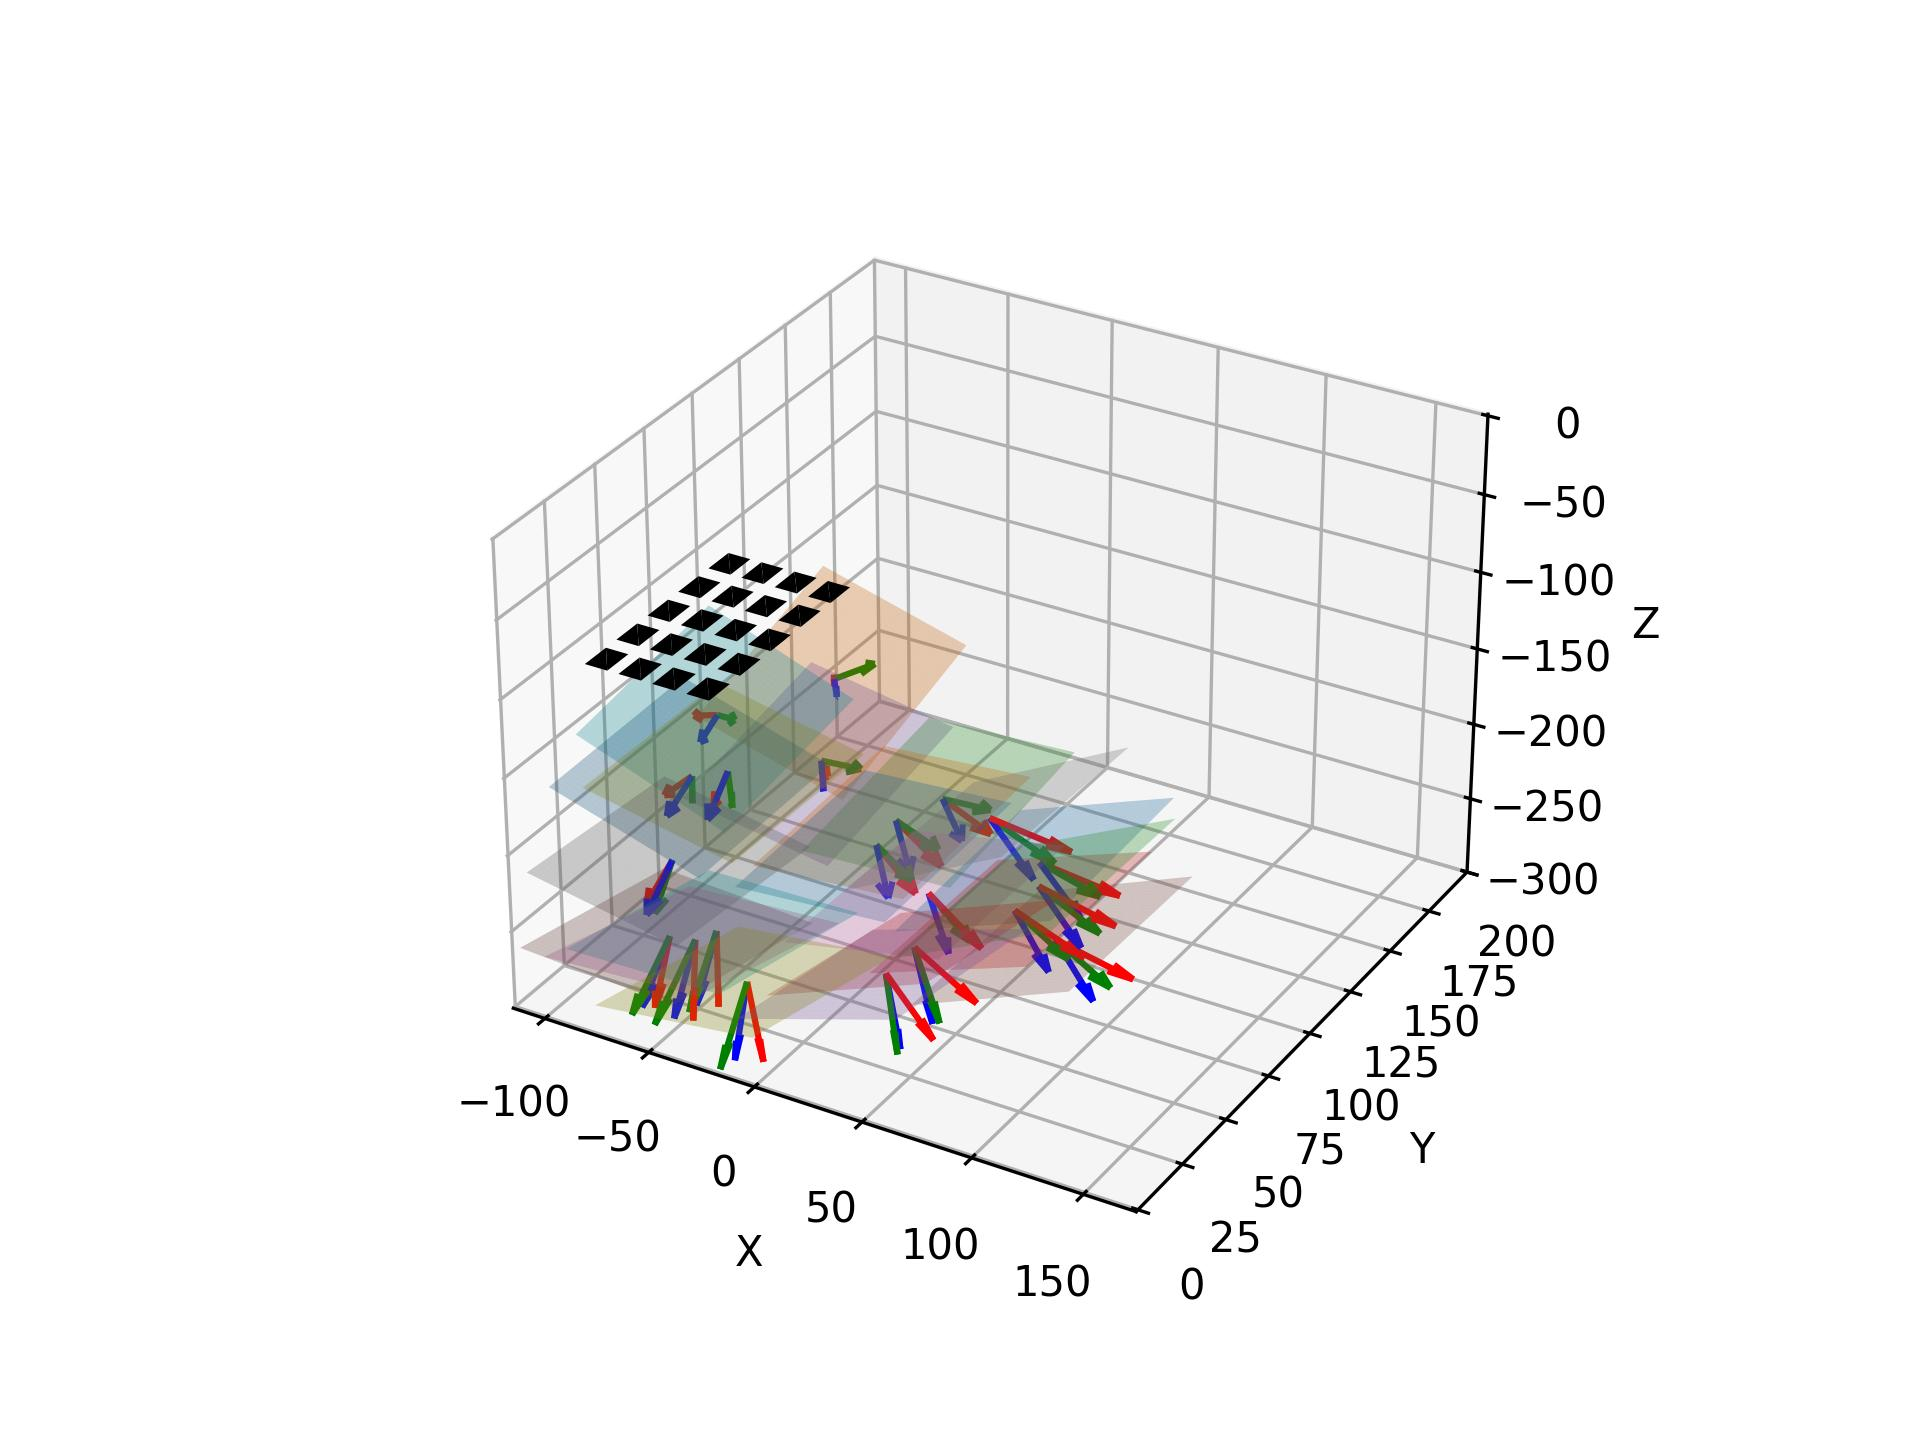
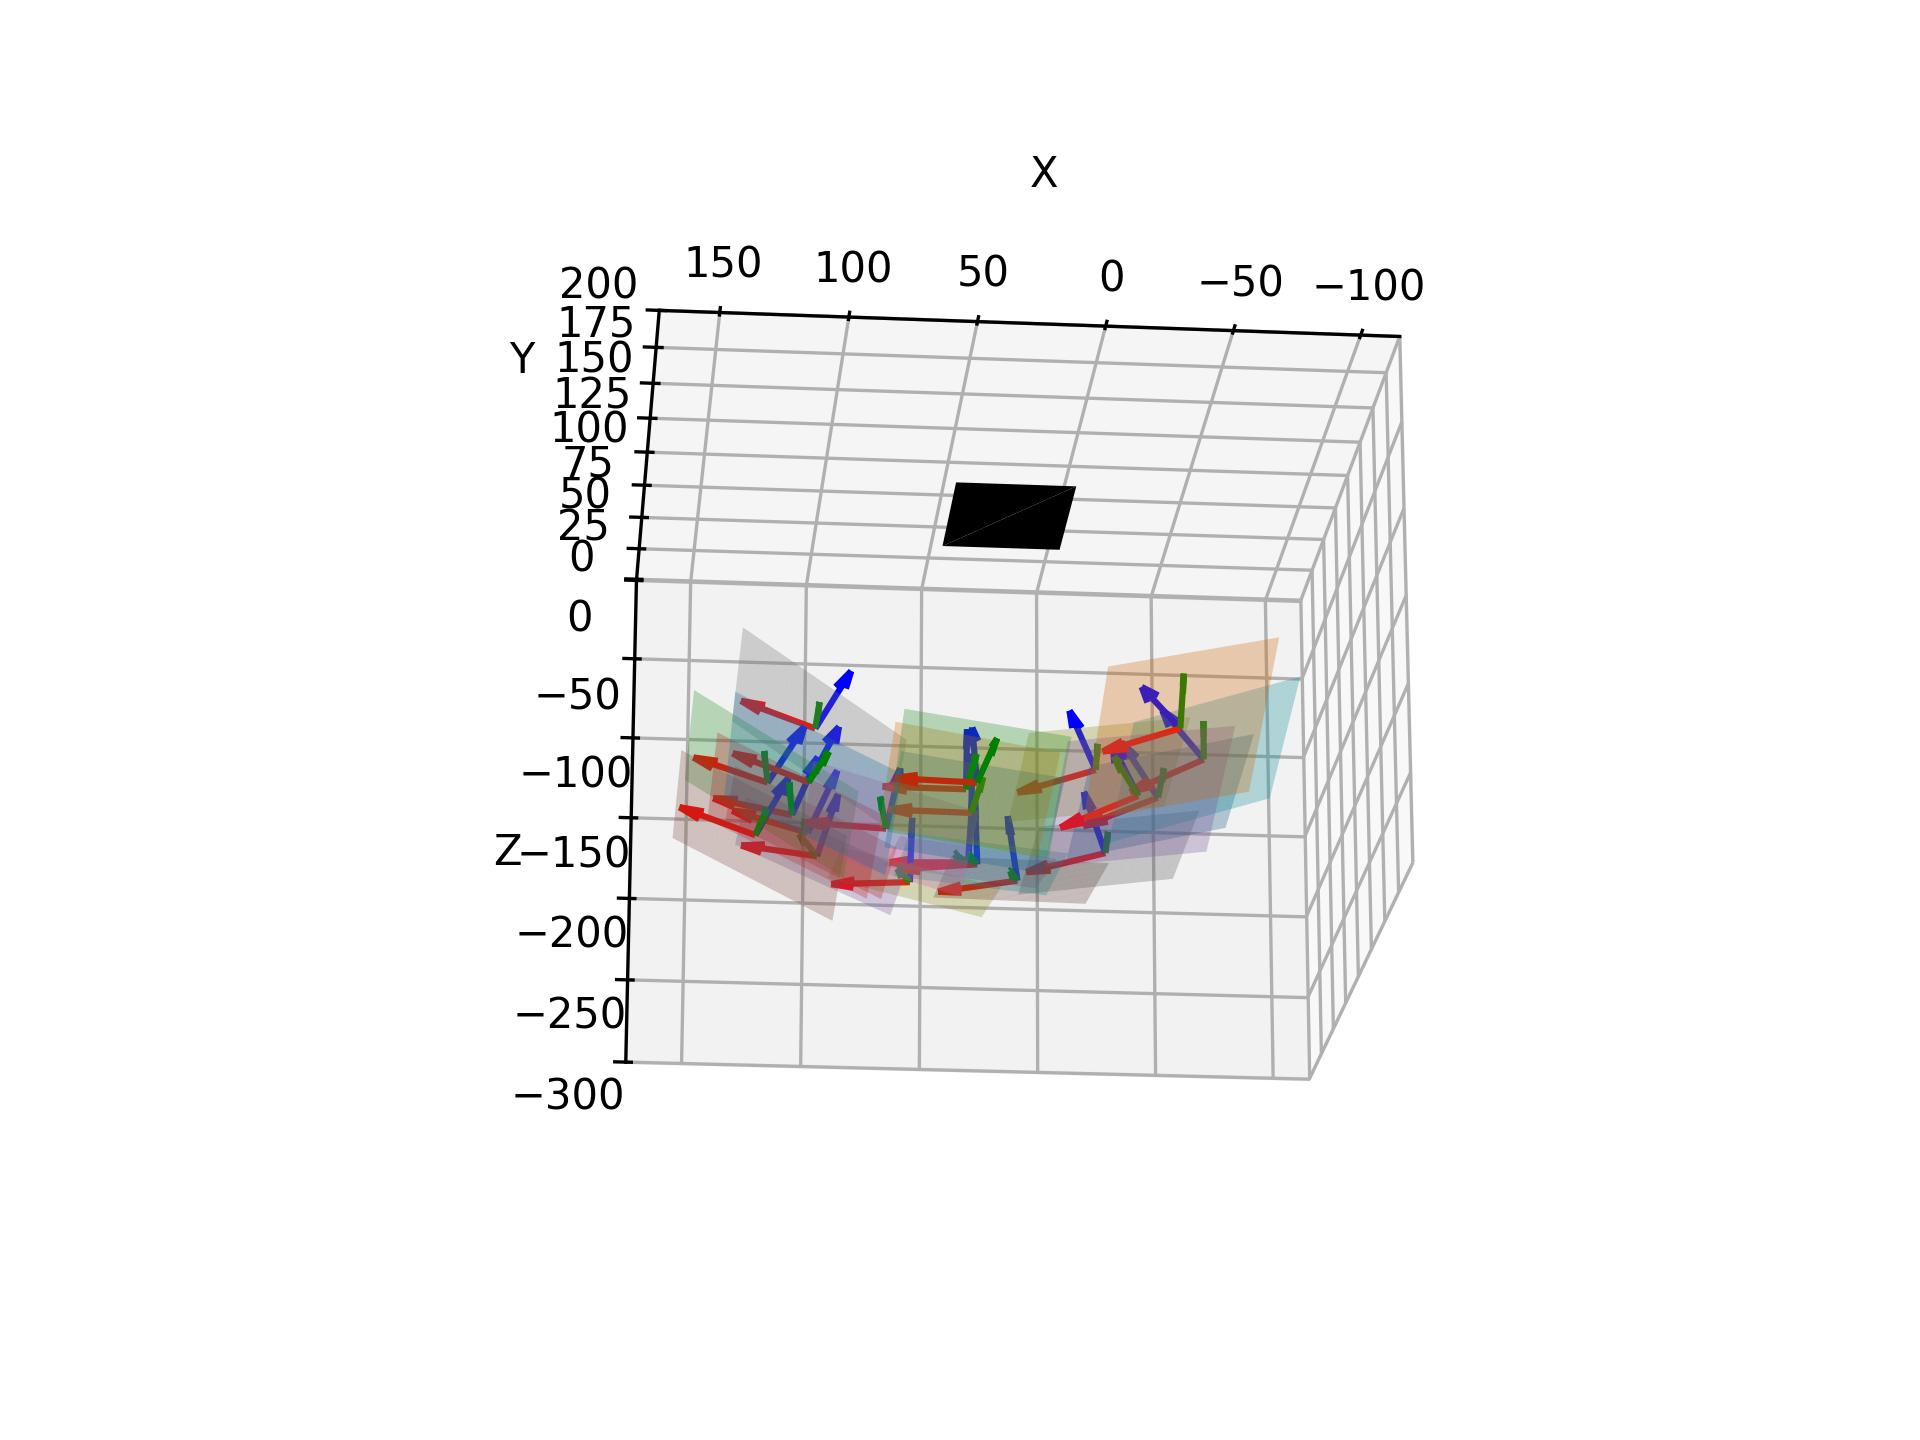
camera pose problem solve

diff --git a/HW8/main.py b/HW8/main.py
@@ -443,57 +443,55 @@ print("[k1 k2] ", res_ls_rd.x[-2:])
 print("-------------------------------------")
 
 def camera_poses(Rs, ts):
-    Cs=[-np.matmul(np.transpose(Rs[i]),ts[i]) for i in range(len(Rs))]
-    Xx=[np.matmul(np.transpose(Rs[i]),[Cs[i][0] + 1,0,0])+Cs[i] for i in range(len(Rs))]
-    Xy=[np.matmul(np.transpose(Rs[i]),[0,Cs[i][1] + 1,0])+Cs[i] for i in range(len(Rs))]
-    Xz=[np.matmul(np.transpose(Rs[i]),[0,0,Cs[i][2] + 1])+Cs[i] for i in range(len(Rs))]
+    Cs=[-Rs[i].T @ ts[i] for i in range(len(Rs))]
+    Xx=[Rs[i].T @ [1,0,0]+Cs[i] for i in range(len(Rs))]
+    Xy=[Rs[i].T @ [0,1,0]+Cs[i] for i in range(len(Rs))]
+    Xz=[Rs[i].T @ [0,0,1]+Cs[i] for i in range(len(Rs))]
     ### length of vectors
     length=35
     fig = plt.figure()
     ax = fig.add_subplot(111, projection='3d')
     for i in range(len(Cs)):
         ax.quiver(Cs[i][0],Cs[i][1],Cs[i][2],
-                  Xx[i][0],Xx[i][1],Xx[i][2],
-                  color="r",length=length,normalize=True)
-        if i==0:
-            print(Xx[i])
+                Xx[i][0]-Cs[i][0],Xx[i][1]-Cs[i][1],Xx[i][2]-Cs[i][2],
+                color="r",length=length,normalize=True)
     for i in range(len(Cs)):
         ax.quiver(Cs[i][0],Cs[i][1],Cs[i][2],
-                  Xy[i][0],Xy[i][1],Xy[i][2],
-                  color="g",length=length,normalize=True)
-        if i==0:
-            print(Xy[i])
+                Xy[i][0]-Cs[i][0],Xy[i][1]-Cs[i][1],Xy[i][2]-Cs[i][2],
+                color="g",length=length,normalize=True)
     for i in range(len(Cs)):
         ax.quiver(Cs[i][0],Cs[i][1],Cs[i][2],
-                  Xz[i][0],Xz[i][1],Xz[i][2],
-                  color="b",length=length,normalize=True)
-        if i==0:
-            print(Xz[i])
+                Xz[i][0]-Cs[i][0],Xz[i][1]-Cs[i][1],Xz[i][2]-Cs[i][2],
+                color="b",length=length,normalize=True)
     for i in range(len(Cs)):
         xx, yy = np.meshgrid(range(int(Cs[i][0]-length),int(Cs[i][0]+length)),
-                             range(int(Cs[i][1]-length),int(Cs[i][1]+length)))
+                            range(int(Cs[i][1]-length),int(Cs[i][1]+length)))
         z = -((xx-Cs[i][0])*Xz[i][0]+(yy-Cs[i][1])*Xz[i][1])/Xz[i][2]+Cs[i][2]
         ax.plot_surface(xx, yy, z, alpha=0.3)
         
-    # Create calibration pattern on the Z=0 plane
-    grid_size = 10  # Size of each square in the grid
-    num_squares_h = 5  # Number of squares along each axis
-    num_squares_v = 4
-    gap = 5  # Space between squares
+    center_x, center_y = 20, 60  # Adjust these values to the center of your plot
+    size = 50  # Adjust the size of the square as needed
 
-    for i in range(-num_squares_v // 2, num_squares_v // 2):
-        for j in range(-num_squares_h // 2, num_squares_h // 2):
-            x = [i * (grid_size + gap), (i + 1) * (grid_size + gap) - gap, (i + 1) * (grid_size + gap) - gap, i * (grid_size + gap)]
-            y = [j * (grid_size + gap), j * (grid_size + gap), (j + 1) * (grid_size + gap) - gap, (j + 1) * (grid_size + gap) - gap]
-            z = [0, 0, 0, 0]
-            ax.plot_trisurf(x, y, z, color='black', shade=False)
+    # Define the square's corner coordinates in the z=0 plane
+    x_square = [center_x - size / 2, center_x + size / 2, center_x + size / 2, center_x - size / 2]
+    y_square = [center_y - size / 2, center_y - size / 2, center_y + size / 2, center_y + size / 2]
+    z_square = [0, 0, 0, 0]  # Ensure the square lies in the z=0 plane
+
+    # Plot the black square on the z=0 plane
+    ax.plot_trisurf(x_square, y_square, z_square, color='black')
     
     ## show origin with limit setting
     ax.set_ylim([-1, 200])
-    ax.set_zlim([-300, 1])
+    ax.set_zlim([-300, 0])
     ax.set_xlabel("X")
     ax.set_ylabel("Y")
     ax.set_zlabel("Z")
+    
+    # elev = 20   # Elevation angle
+    elev = -20
+    azim = 85   # Azimuthal angle
+    ax.view_init(elev=elev, azim=azim)
+
     plt.savefig("3d_vectors_plot.jpg", format="jpg", dpi=300)
     
 camera_poses(Rs, ts)
